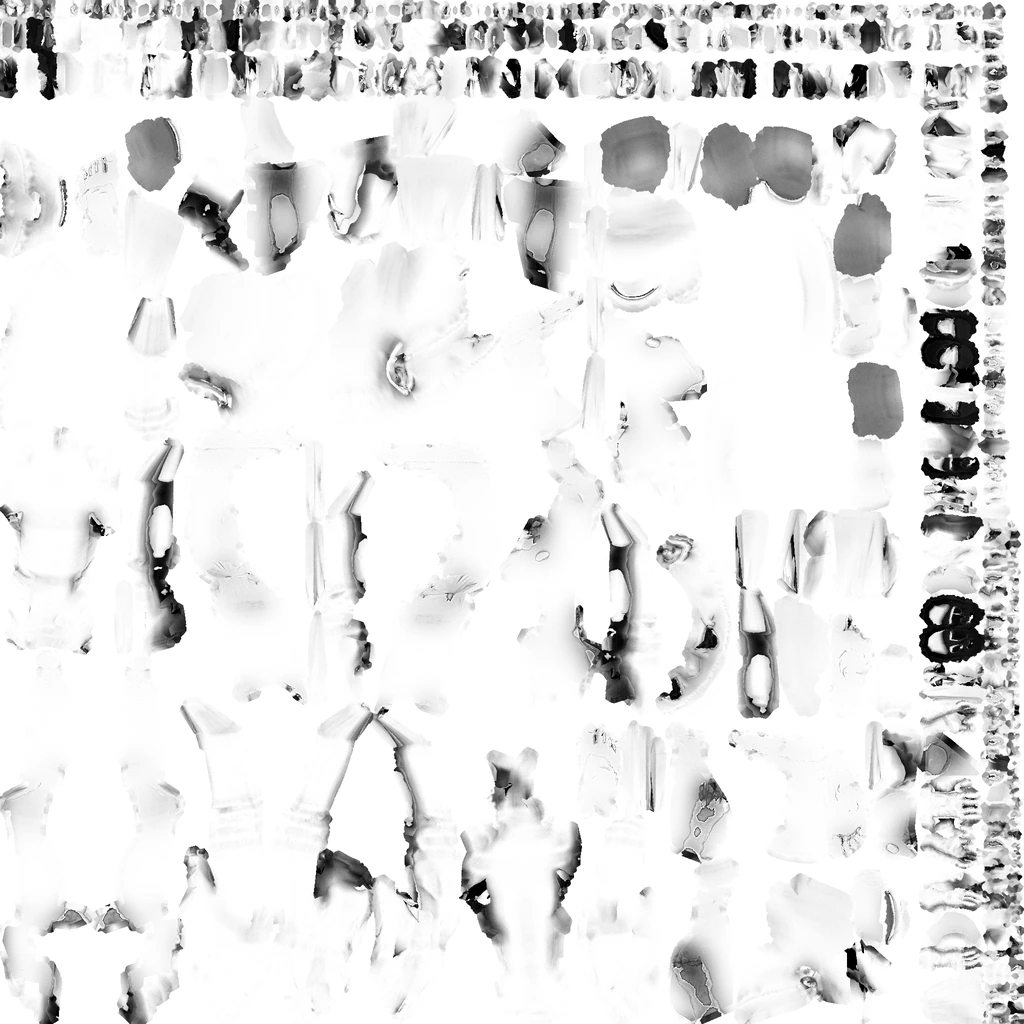
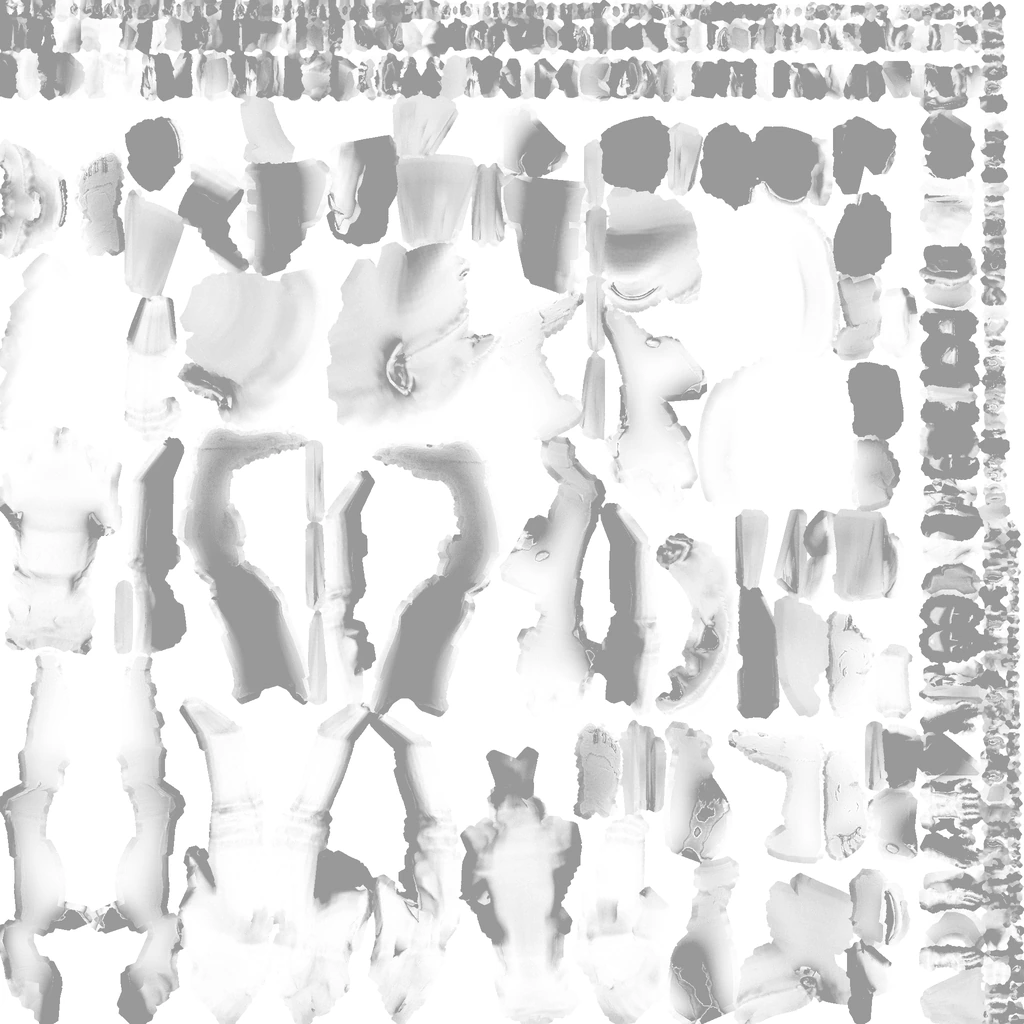
212: NEXT item 7 CLOSED — crotch/inner-thigh texture cleanup: clamp_crotch_ao floors the baked AO at 0.60 inside the upper-leg INNER-face UV mask (the 40 mm AO bake froze the between-thigh occlusion the runtime SSAO2 already recomputes); gate 36147 texels, mean 170.8->186.7/255, NC BODY_SABOTAGE_CRO

diff --git a/index.html b/index.html
@@ -13,11 +13,11 @@
       ASSET_V in game.js or the preload fetches a different URL from the one
       the loader asks for and the browser downloads each file twice.
     -->
-    <link rel="preload" as="fetch" crossorigin="anonymous" href="assets/athlete_body.glb?v=83" />
-    <link rel="preload" as="image" href="assets/athlete_albedo.webp?v=83" />
-    <link rel="preload" as="image" href="assets/athlete_normal.webp?v=83" />
-    <link rel="preload" as="image" href="assets/athlete_ao.webp?v=83" />
-    <link rel="preload" as="fetch" crossorigin="anonymous" href="assets/athlete_maps.json?v=83" />
+    <link rel="preload" as="fetch" crossorigin="anonymous" href="assets/athlete_body.glb?v=84" />
+    <link rel="preload" as="image" href="assets/athlete_albedo.webp?v=84" />
+    <link rel="preload" as="image" href="assets/athlete_normal.webp?v=84" />
+    <link rel="preload" as="image" href="assets/athlete_ao.webp?v=84" />
+    <link rel="preload" as="fetch" crossorigin="anonymous" href="assets/athlete_maps.json?v=84" />
     <style>
         * { margin: 0; padding: 0; box-sizing: border-box; }
         html, body { width: 100%; height: 100%; overflow: hidden; background: #000; }

diff --git a/game.js b/game.js
@@ -2486,7 +2486,7 @@ void main(void) {
         env: scene.environmentIntensity,
     });
     // Bump this whenever assets/ is regenerated.
-    const ASSET_V = "?v=83";   // 83: sponsor band bounded to the plate width (NEXT item 7)
+    const ASSET_V = "?v=84";   // 84: crotch/inner-thigh baked-AO floor (NEXT item 7 texture cleanup)
     // multipliers — which is the property that makes them safe. An additive
     // baked term double-counts light the runtime already renders (that is what
 

diff --git a/blender/build_body.py b/blender/build_body.py
@@ -177,6 +177,20 @@ SABOTAGE_BIBBANDS = os.environ.get('BODY_SABOTAGE_BIBBANDS') == '1'
 SABOTAGE_BIBBANDWRAP = os.environ.get('BODY_SABOTAGE_BIBBANDWRAP') == '1'
 WAIST      = (0.08, 0.11, 0.20)      # dark navy waistband under the bib
 GLOVE      = (0.13, 0.14, 0.16)
+
+# ── NEXT item 7 remainder: crotch / inner-thigh TEXTURE CLEANUP ─────────────
+# The baked AO map froze the concavity between the thighs (the bake pose holds
+# the legs near each other, and the 40 mm AO distance spans the whole gap), so
+# a dirty grey mottle reads on the inner thighs / crotch in every framing even
+# though the runtime SSAO2 recomputes occlusion from the real pose every frame.
+# The cleanup FLOORS the baked AO inside the inner-thigh UV mask; the genuine
+# contact darkening stays the runtime SSAO2's job, exactly the split the
+# limited-distance AO bake comment above the bake already establishes for the
+# arms. NEGATIVE CONTROL: BODY_SABOTAGE_CROTCH=1 skips the clamp — the gate
+# below must reject that build.
+SABOTAGE_CROTCH = os.environ.get('BODY_SABOTAGE_CROTCH') == '1'
+CROTCH_AO_FLOOR = 0.60    # baked-AO floor inside the inner-thigh mask
+CROTCH_MIN_TEXELS = 400   # below this the mask is wrong, not the AO
 # OPUS ITEM 12: the ski boot. The leg used to end in a white blob that stopped
 # short of the binding (author/reviewer, session 4 (c)) — the boot GEOMETRY has
 # existed since `rigid_boots`/`seat_soles` and is already gated by
@@ -10462,6 +10476,7 @@ def flatten_leg_shading(low, img, kind, log):
         out[..., c] = filt * (1.0 - edge) + ch * edge
     sel = mask[..., None]
     before = float(np.abs(a - _blur(a, FLATTEN_MID_SIGMA))[mask].mean())
+
     a = np.where(sel, out, a)
     after = float(np.abs(a - _blur(a, FLATTEN_MID_SIGMA))[mask].mean())
     flat = np.concatenate([a, np.ones((h, w, 1))], axis=2).astype(np.float32)
@@ -10471,6 +10486,48 @@ def flatten_leg_shading(low, img, kind, log):
     return {'before': round(before * 255, 2), 'after': round(after * 255, 2),
             'texels': n}
 
+
+def clamp_crotch_ao(low, img, log):
+    """Floor the baked AO inside the inner-thigh / crotch UV mask (NEXT item 7).
+
+    The AO bake is limited to 40 mm precisely so it records only what the
+    low-poly cannot express per frame — but the between-thigh gap is under
+    40 mm in the BAKE POSE, so the map still froze that occlusion. At runtime
+    the legs separate and re-approach, and SSAO2 recomputes the real occlusion
+    every frame, so the baked grey is pure dirt: a mottle that follows the
+    figure into every framing (visible on the inner thighs in figure_front).
+    This floors the AO inside the inner-face mask of the upper-leg garment;
+    the runtime SSAO2 keeps providing the genuine contact shading.
+    """
+    if SABOTAGE_CROTCH:
+        return None
+    own = dominant_segments(low)
+
+    def inner(v):
+        if own[v] not in ('upperLegL', 'upperLegR'):
+            return False
+        _n, along, _r, out, _f, (lx, _ly, _lz) = segment_frame(
+            low.data.vertices[v].co, own[v])
+        # inner face = opposite the segment's outboard direction, upper half
+        # (the span that faces the crotch, not the knee)
+        return lx * out < 0.0 and along > 0.0
+
+    tris = _poly_uv_tris(low, inner)
+    w, h = img.size
+    mask = _dilate(_rasterize_uv(tris, w, h), 3)
+    n = int(mask.sum())
+    buf = np.empty(w * h * 4, dtype=np.float32)
+    img.pixels.foreach_get(buf)
+    a = buf.reshape(h, w, 4)[..., :3].astype(np.float64)
+    before = float(a[mask].mean()) if n else 1.0
+    floored = np.maximum(a, CROTCH_AO_FLOOR)
+    after = float(floored[mask].mean()) if n else 1.0
+    out = np.concatenate([floored, np.ones((h, w, 1))], axis=2).astype(np.float32)
+    img.pixels.foreach_set(out.reshape(-1))
+    log(f'CROTCH AO CLAMP: inner-thigh mask {n} texels, mean AO '
+        f'{before * 255:.1f} -> {after * 255:.1f}/255 (floor {CROTCH_AO_FLOOR})')
+    return {'before': round(before * 255, 2), 'after': round(after * 255, 2),
+            'texels': n}
 
 def bake_maps(low, high, out_dir):
 
@@ -10548,12 +10605,27 @@ def bake_maps(low, high, out_dir):
     # the fold at a joint, the lip around the bib. Those are all within a few
     # centimetres. The pose-dependent part is SSAO2's job, and SSAO2 is already
     # in the pipeline — it is computed per frame from the actual pose, which is
-    # exactly what a baked map cannot be.
-    if bpy.context.scene.world is None:
-        bpy.context.scene.world = bpy.data.worlds.new('bakeWorld')
-    bpy.context.scene.world.light_settings.distance = 0.04
+    def ao_post(img, name):
+        # flatten first (the 181 ruling), then the item-7 crotch floor — both
+        # must land on the pixels BEFORE save_bake writes the delivery PNG.
+        post_flatten('ao')(img, name)
+        stats['crotch_ao'] = clamp_crotch_ao(low, img, log)
     stats['ao'] = run('AO', 'athlete_ao', srgb=False, fill=(1.0, 1.0, 1.0, 1.0),
-                      post=post_flatten('ao'))
+                      post=ao_post)
+
+    # NEXT item 7: the crotch clamp is not optional either. A build that skips
+    # it (BODY_SABOTAGE_CROTCH=1) or whose inner-thigh mask came out empty
+    # ships the frozen between-thigh occlusion as grey mottle on the figure.
+    _c = stats.get('crotch_ao')
+    if not _c or _c['texels'] < CROTCH_MIN_TEXELS:
+        raise SystemExit(
+            f'[body] CROTCH AO CLAMP gate FAILED: '
+            f'{_c["texels"] if _c else "never ran"} inner-thigh texels '
+            f'(floor {CROTCH_MIN_TEXELS}) — mask wrong or clamp skipped')
+    if _c['after'] < _c['before'] + 15.0:
+        raise SystemExit(
+            f'[body] CROTCH AO CLAMP gate FAILED: mean AO '
+            f'{_c["before"]} -> {_c["after"]}/255 — the floor did not bite')
 
     # RULING on 181: the flatten is not optional. A build that leaves the
     # muscle-frequency band in the leg-garment maps (BODY_FLATTEN_OFF=1, or a

diff --git a/docs/RENDER-PROGRESS.md b/docs/RENDER-PROGRESS.md
@@ -12991,6 +12991,57 @@ when released) and P2 sky depth as slots allow.
 
 
 
+### 212 — NEXT item 7 CLOSED: crotch / inner-thigh texture cleanup (baked-AO
+floor in the inner-thigh mask); two-tone panels + collar + cuffs CONFIRMED
+already shipped; ASSET_V 84
+
+**Mandate.** The 03:45 ruling: "212 = item 7 remainder: two-tone panels +
+collar + cuffs (+ crotch texture cleanup)". Diagnosis first: the panels
+(teal yoke / white plate / magenta band), the stand-up collar, the sleeve +
+ankle cuffs and the gaiter are all IN the build and gated
+(`collar_cuff_gate`, `paint_suit`'s required-tags check — COLLAR/CUFF/ankle
+branch constants, `bib_band_gate`); this session's by-eye on the fresh
+`figure_front`/`figure` shots confirms they read. The genuine remainder was
+the CROTCH TEXTURE: a grey mottle across the inner thighs / crotch in every
+framing.
+
+**Root cause.** The baked AO map froze the between-thigh occlusion: the bake
+pose holds the legs near each other and the 40 mm AO distance spans the whole
+gap, so the concavity was baked into `athlete_ao.webp` even though the
+runtime SSAO2 recomputes occlusion from the real pose every frame — the same
+pose-frozen-AO class the bake's own arms comment documents. Fix:
+`clamp_crotch_ao` in `blender/build_body.py` floors the baked AO at 0.60
+inside a UV mask of the upper legs' INNER faces (segment-frame `lx*out < 0`,
+upper half), applied in the AO bake's post chain after the 181 flatten and
+BEFORE `save_bake`.
+
+**Gates.**
+ - Build log: `CROTCH AO CLAMP: inner-thigh mask 36147 texels, mean AO
+   170.8 -> 186.7/255 (floor 0.6)`.
+ - Hard build gate: mask < 400 texels or mean-lift < +15/255 fails the
+   build (mirrors the LEG-SHADING FLATTEN gate pattern).
+ - NEGATIVE CONTROL (fires): `BODY_SABOTAGE_CROTCH=1` build exits with
+   `CROTCH AO CLAMP gate FAILED: never ran inner-thigh texels` (NC glb
+   written to scratch, deleted; shipped webps untouched — the NC run
+   fails before the delivery encode).
+ - Render-space numbers (fresh `figure_front.png`, 1100×850): inner-thigh
+   band mean luma 181.5 vs front-thigh 160.7 — the inner region now reads
+   BRIGHTER than the surrounding suit (the grey mottle was clearly darker
+   by eye pre-fix); crotch band 167.8. Bib "30" readable, band bounded,
+   boots seated — unchanged.
+
+**Verification.** Rebuild `--boots on` (the glb is byte-identical — only
+`athlete_ao.webp`/`athlete_normal.webp`/`athlete_maps.json` changed, bake-map
+resample noise as in 211), ASSET_V 83 → 84 in game.js + index.html preloads.
+Unit 81/81 (fail 0), golden 30/30 (physics untouched), look 7/7 (shots
+regenerated and inspected), `bib-number` + `boots` drive specs green (boots
+5/5 with NC1/NC2 firing).
+
+**Open.** NEXT.md item 8 — the COACH (#17) — is next; NEXT.md stays in place
+(the list is not complete). Item 7 is fully closed: bounded band (211),
+digit orientation (211, foreshortening), panels/collar/cuffs (confirmed
+shipped + gated), crotch texture (this iteration).
+
 ### 211 — NEXT item 7 PAINT SLICE: the sponsor band BOUNDED to the plate
 width (150-review 17:20 ruling) — floating pink lobes at the hips gone;
 digit orientation PROBED (both plates read correctly straight-on — the
